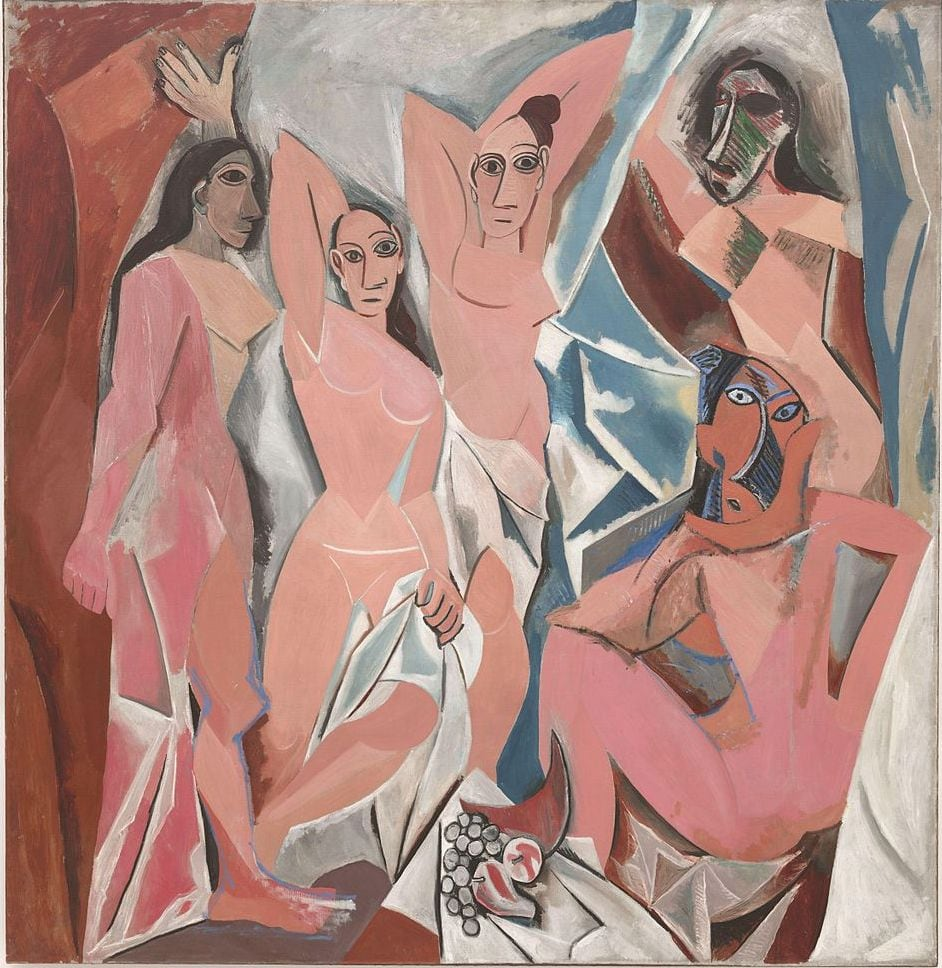
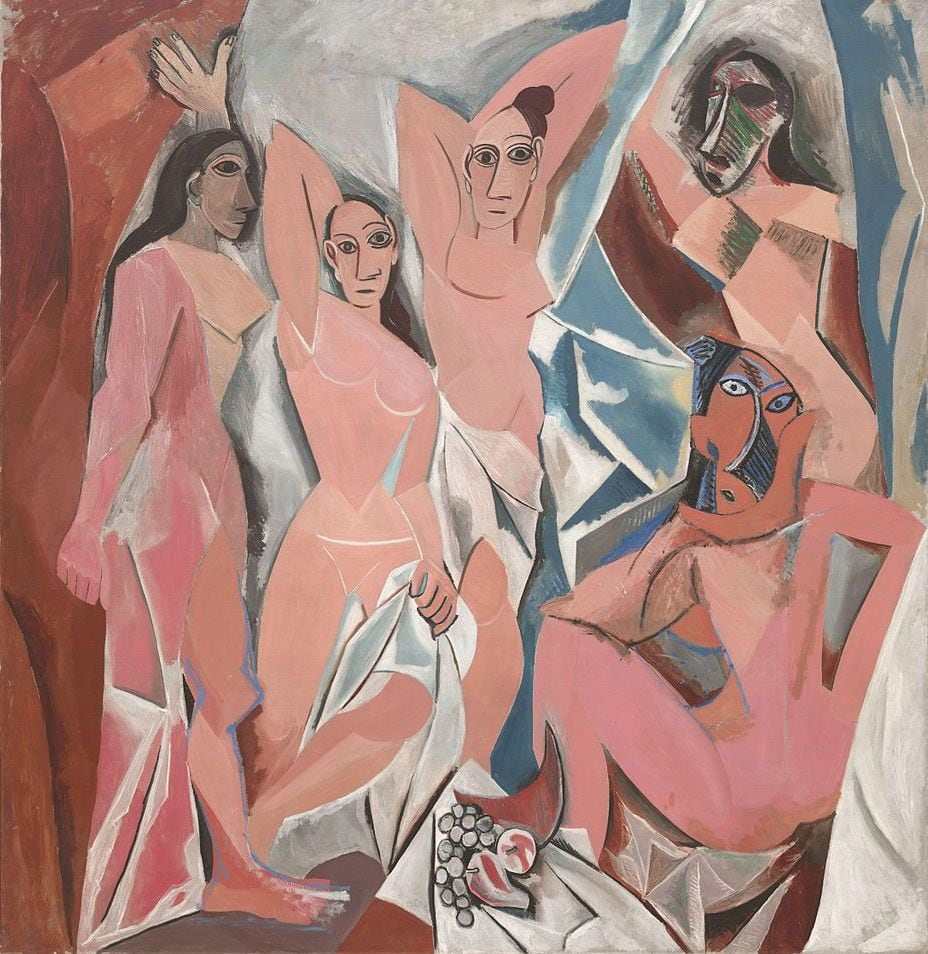
cards: finalize OrientationCard (width caps, top-align, matched text) + bake into pipelines
Refinements after live review:
 - portrait images no longer fill the full card height (that made them tall + the
   text column thin); instead the user width-cap rule: landscape/square <= 3/4
   screen, portrait IMAGE <= 1/2 screen, card grows in height.
 - near-square works (~1.0-1.15) now render on TOP, not as a starved left image
   (PORTRAIT_RATIO 1.18); only clearly-tall works go left.
 - text TOP-aligned in every card (was: portrait centered); text sizes MATCHED
   across all cards (title 18, blurb 13.5, sub 10, credit 9.5) regardless of size.
 - Demoiselles re-cropped tighter (border fully gone) + XL flagship shrunk.

Baked into the pipelines: BEHAVIORS.md "Cards" rewritten to the final spec
(incl. the "blurb is written to FIT the image" authoring rule); art + music
content-pipeline image gates updated to match.

diff --git a/src/components/mode/orientation-card.tsx b/src/components/mode/orientation-card.tsx
@@ -26,9 +26,21 @@ const BORDER = 'color-mix(in srgb, var(--foreground) 11%, transparent)'
 const CARD_BG = 'color-mix(in srgb, var(--foreground) 4%, transparent)'
 const IMG_FILTER = 'sepia(0.14) saturate(0.88) contrast(1.04)'
 
-const CARD_W: Record<OCardSize, number> = { s: 232, m: 272, l: 312, xl: 360 }
-const P_IMG_H: Record<OCardSize, number> = { s: 175, m: 215, l: 250, xl: 320 }
-const BODY_FS: Record<OCardSize, number> = { s: 12.5, m: 13, l: 13.5, xl: 14.5 }
+const CARD_W: Record<OCardSize, number> = { s: 232, m: 272, l: 312, xl: 312 }
+// Only a clearly TALL image uses the left (portrait) layout; near-square images
+// (e.g. ~1.08) stay on top so the text column isn't starved.
+const PORTRAIT_RATIO = 1.18
+// Top-layout images may be a little taller than the card is wide (so a mildly
+// tall work still fills the width instead of letterboxing); genuinely tall works
+// cross PORTRAIT_RATIO and go to the left layout instead.
+const LS_MAX_H_MULT = 1.25
+// Screen-relative width caps (user rule, 2026-05-25): a landscape/square card is
+// never wider than 3/4 of the screen; a portrait IMAGE is never wider than 1/2 the
+// screen (so the text column beside it stays roomy). The per-size px values are the
+// target on wide screens; the vw caps win on phones.
+const LS_MAX_VW = '75vw'
+const P_IMG_MAX_VW = '50vw'
+const P_IMG_W: Record<OCardSize, number> = { s: 150, m: 185, l: 210, xl: 225 }
 
 function hexAlpha(hex: string, a: number): string {
   const h = hex.replace('#', '')
@@ -64,7 +76,7 @@ export function OrientationCard({
   const onImgLoad = (e: React.SyntheticEvent<HTMLImageElement>) => {
     if (portrait === undefined) {
       const im = e.currentTarget
-      setOrient(im.naturalHeight > im.naturalWidth * 1.08 ? 'p' : 'ls')
+      setOrient(im.naturalHeight > im.naturalWidth * PORTRAIT_RATIO ? 'p' : 'ls')
     }
   }
 
@@ -77,16 +89,16 @@ export function OrientationCard({
     overflow: 'hidden',
     display: 'flex',
     flexDirection: portraitLayout ? 'row' : 'column',
-    width: cardW,
+    width: `min(${cardW}px, ${LS_MAX_VW})`,
     maxWidth: '100%',
     opacity: dim ? 0.74 : 1,
   }
 
   const textBlock = (
-    <div style={{ flex: portraitLayout ? 1 : undefined, minWidth: 0, padding: isXL ? '13px 16px 15px' : (isLG ? '12px 15px 14px' : '10px 13px 12px'), display: 'flex', flexDirection: 'column', justifyContent: portraitLayout ? 'center' : 'flex-start' }}>
-      <div style={{ fontFamily: SERIF, fontSize: isXL ? 22 : (isLG ? 19 : 17), fontWeight: 600, lineHeight: 1.1, letterSpacing: -0.3, color: INK }}>{title}</div>
+    <div style={{ flex: portraitLayout ? 1 : undefined, minWidth: 0, padding: isXL ? '13px 16px 15px' : (isLG ? '12px 15px 14px' : '10px 13px 12px'), display: 'flex', flexDirection: 'column', justifyContent: 'flex-start' }}>
+      <div style={{ fontFamily: SERIF, fontSize: 18, fontWeight: 600, lineHeight: 1.12, letterSpacing: -0.3, color: INK }}>{title}</div>
       {sub != null && <div style={{ fontFamily: SANS, fontSize: 10, fontWeight: 600, letterSpacing: 0.6, textTransform: 'uppercase', color: MUTED, marginTop: 4 }}>{sub}</div>}
-      {body != null && <div style={{ marginTop: 7, fontFamily: SERIF, fontSize: BODY_FS[size], lineHeight: 1.42, color: INK, textWrap: 'pretty' }}>{body}</div>}
+      {body != null && <div style={{ marginTop: 7, fontFamily: SERIF, fontSize: 13.5, lineHeight: 1.42, color: INK, textWrap: 'pretty' }}>{body}</div>}
       {credit != null && <div style={{ marginTop: 8, fontFamily: SANS, fontSize: 9.5, fontWeight: 400, lineHeight: 1.35, letterSpacing: 0.2, color: MUTED }}>{credit}</div>}
       {footer != null && <div style={{ marginTop: 8 }}>{footer}</div>}
     </div>
@@ -98,11 +110,14 @@ export function OrientationCard({
   )
 
   if (portraitLayout) {
+    // Portrait: image on the LEFT at its natural aspect, capped at HALF the screen
+    // width (P images are never more than 1/2 screen), shown whole — text on the
+    // right gets the rest, so it stays roomy. The card sizes to its content.
     return (
-      <div style={{ ...outer, width: 'fit-content', maxWidth: `min(100%, ${cardW + 72}px)` }}>
+      <div style={{ ...outer, width: 'fit-content', maxWidth: `min(94vw, ${cardW + 150}px)`, alignItems: 'stretch' }}>
         {badge}
-        <div style={{ position: 'relative', flexShrink: 0, lineHeight: 0 }}>
-          {imgEl({ height: P_IMG_H[size], width: 'auto' })}
+        <div style={{ position: 'relative', flexShrink: 0, lineHeight: 0, overflow: 'hidden' }}>
+          {imgEl({ width: `min(${P_IMG_W[size]}px, ${P_IMG_MAX_VW})`, height: 'auto', alignSelf: 'flex-start' })}
           {imageOverlay}
         </div>
         {textBlock}
@@ -114,8 +129,8 @@ export function OrientationCard({
     <div style={outer}>
       {badge}
       {hasImg && (
-        <div style={{ position: 'relative', width: '100%', maxHeight: cardW, overflow: 'hidden', background: CARD_BG, lineHeight: 0 }}>
-          {imgEl({ width: '100%', height: 'auto', maxHeight: cardW, objectFit: 'contain' })}
+        <div style={{ position: 'relative', width: '100%', maxHeight: cardW * LS_MAX_H_MULT, overflow: 'hidden', background: CARD_BG, lineHeight: 0 }}>
+          {imgEl({ width: '100%', height: 'auto', maxHeight: cardW * LS_MAX_H_MULT, objectFit: 'contain' })}
           {imageOverlay}
         </div>
       )}

diff --git a/BEHAVIORS.md b/BEHAVIORS.md
@@ -158,20 +158,32 @@ The rules it bakes in (all of these are recurring defects it exists to prevent):
   `demoiselles.jpg` from the en scan's gray top border).
 - **The image fills 3 sides of the card; text is on the 4th**, by orientation:
   - **landscape / square** → image on TOP, filling top/left/right; text below.
-  - **portrait** → image on the LEFT, filling top/left/bottom; text on the right.
-    The image height drives the card height, so it's flush with no gap.
-  Orientation is **auto-detected** from the loaded image (`naturalHeight >
-  naturalWidth`); an optional `portrait` hint avoids the load-time reflow. The
-  author just supplies an image — no per-card tagging or sizing.
-- **The card is capped per size and its HEIGHT grows to fit** — it never stretches
-  full-width across the screen. Landscape and portrait images are normalized so
-  they read at roughly the same size.
+  - **portrait** (clearly tall) → image on the LEFT, filling top/left; text on the
+    right gets the rest, so the text column stays roomy.
+  Orientation is **auto-detected** from the loaded image — portrait only when
+  `naturalHeight > naturalWidth × PORTRAIT_RATIO` (≈1.18), so **near-square works
+  (~1.0–1.15) stay on TOP** (a near-square left image would starve the text). An
+  optional `portrait` hint avoids the load-time reflow; the author just supplies an
+  image — no per-card tagging or sizing.
+- **Screen-relative width caps (user rule):** a landscape/square card is never wider
+  than **¾ of the screen** (`75vw`); a portrait **image** is never wider than **½
+  the screen** (`50vw`). Per-size px values are the wide-screen target; the vw caps
+  win on phones. The card **grows in height** to fit; it never stretches full-width.
+- **Blurbs are written to FIT** (authoring rule). The image is the fixed element
+  (shown whole, sized by the width caps); the **blurb is the flexible element** — the
+  author writes it to fill the space the image leaves (a bit longer for a tall
+  portrait so the text runs down beside it; freer below a landscape). Card size is
+  responsive, so "fit" targets the primary phone layout; the CSS is the safety net
+  (card always grows, never crops or clips), so an imperfect fit is never broken.
 - **A card NEVER truncates text.** No `-webkit-line-clamp`, no `text-overflow:
   ellipsis`, no JS substring (`short()`-style) on a title/blurb. `textWrap:
-  'pretty'`; the card grows. Authors keep blurbs tight, but the UI never cuts a
-  word. (Single-line ellipsis on *breadcrumb / nav chrome* is a separate,
-  deliberate narrow-screen guard and is allowed.)
-- **Title** is a semibold serif headline; the sub line is a small uppercase label.
+  'pretty'`; the card grows. (Single-line ellipsis on *breadcrumb / nav chrome* is a
+  separate, deliberate narrow-screen guard and is allowed.)
+- **Text is TOP-aligned** in every card (title at the top, flowing down) — not
+  vertically centered — so all cards read consistently.
+- **Text sizes are MATCHED across all cards** regardless of size variant: title
+  18px semibold serif, blurb 13.5px serif, sub a 10px uppercase label, credit 9.5px.
+  Only the image size (and the XL flagship's accent ring) varies between cards.
 
 **War cards** (`war-battle-card.tsx`, `war-front-door.tsx`) keep their own design —
 the "escalating spine" where card height encodes the war's size, plus gradient

diff --git a/audits/music-content-pipeline.md b/audits/music-content-pipeline.md
@@ -70,11 +70,12 @@ documented fact from charming legend**, and to frame a load-bearing legend as le
    (composition + recording) are cleared, or it's a degraded reference card; the
    caption/credit matches the actual track (right artist, title, year, label). A
    media item that can't be verified is swapped for a verified on-topic substitute
-   or rendered as a reference card — never a blind/guessed embed. **Card images
-   (album/cover art, portraits) fill the frame with the artwork** — trim any
-   border/letterbox and self-host the crop if the source carries chrome; and
-   **cards never truncate text** (no line-clamp/ellipsis on a card blurb — the card
-   grows). Same rules as art; see `BEHAVIORS.md` "Cards".
+   or rendered as a reference card — never a blind/guessed embed. **Card images use
+   the shared `OrientationCard`** (`src/components/mode/orientation-card.tsx`): image
+   shown WHOLE (never cropped; trim true borders + self-host), fills 3 sides
+   (landscape on top, portrait on left), width caps ¾ / ½ screen, card grows, never
+   truncates text, blurb written to FIT. Same rules as art; full spec in
+   `BEHAVIORS.md` "Cards".
 7. **Nesting / coherence gate** — across era → genre → work → artist, each pair is
    (a) consistent (a date/credit reads the same at every altitude) and
    (b) differentiated (a lower level goes DEEPER, never copy-pastes the level above).

diff --git a/audits/art-content-pipeline.md b/audits/art-content-pipeline.md
@@ -108,9 +108,12 @@ Mirrors War's five, re-pointed at art, plus two art-specific structural gates:
    or `.extract()`), eyeball it, and SELF-HOST the crop in `public/art/` (e.g.
    `salon-1787.jpg` from the Met's mounted engraving; `demoiselles.jpg` from the en
    scan's gray top border). A full in-article figure may keep a documentary print's
-   caption; a card may not. **Cards never truncate text** (no line-clamp / ellipsis
-   / `short()` — the card grows; see `BEHAVIORS.md` "Cards"); keep card blurbs tight
-   so a grown card stays compact.
+   caption; a card may not. Width caps: landscape/square ≤ ¾ screen, portrait image
+   ≤ ½ screen; near-square (~1.0–1.15) stays on top. **Cards never truncate text**
+   (no line-clamp / ellipsis / `short()` — the card grows). **The card BLURB is
+   written to FIT** the space the image leaves (the image is fixed/whole; the blurb
+   is the flexible element — a bit longer beside a tall portrait). Full spec in
+   `BEHAVIORS.md` "Cards".
 7. **Nesting / coherence gate** (the multi-level analog of War's continuity sweep +
    civ's Persona E) — because narratives exist at era → movement → work → artist,
    each pair must be (a) **consistent** — a date, attribution or claim must read the
